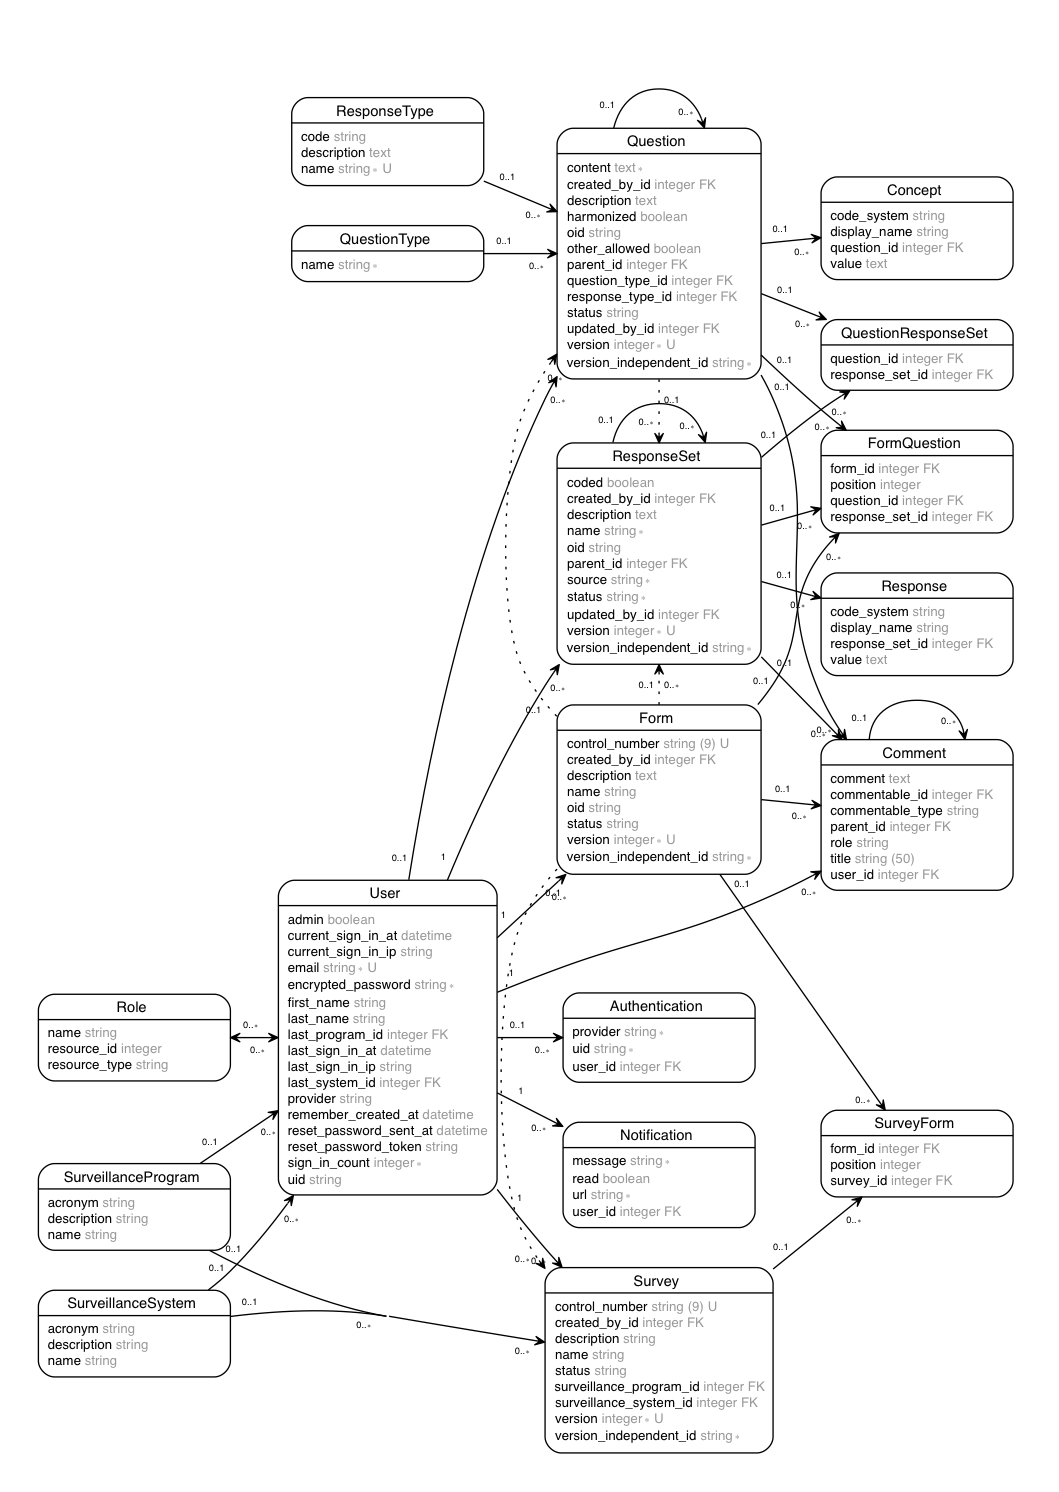
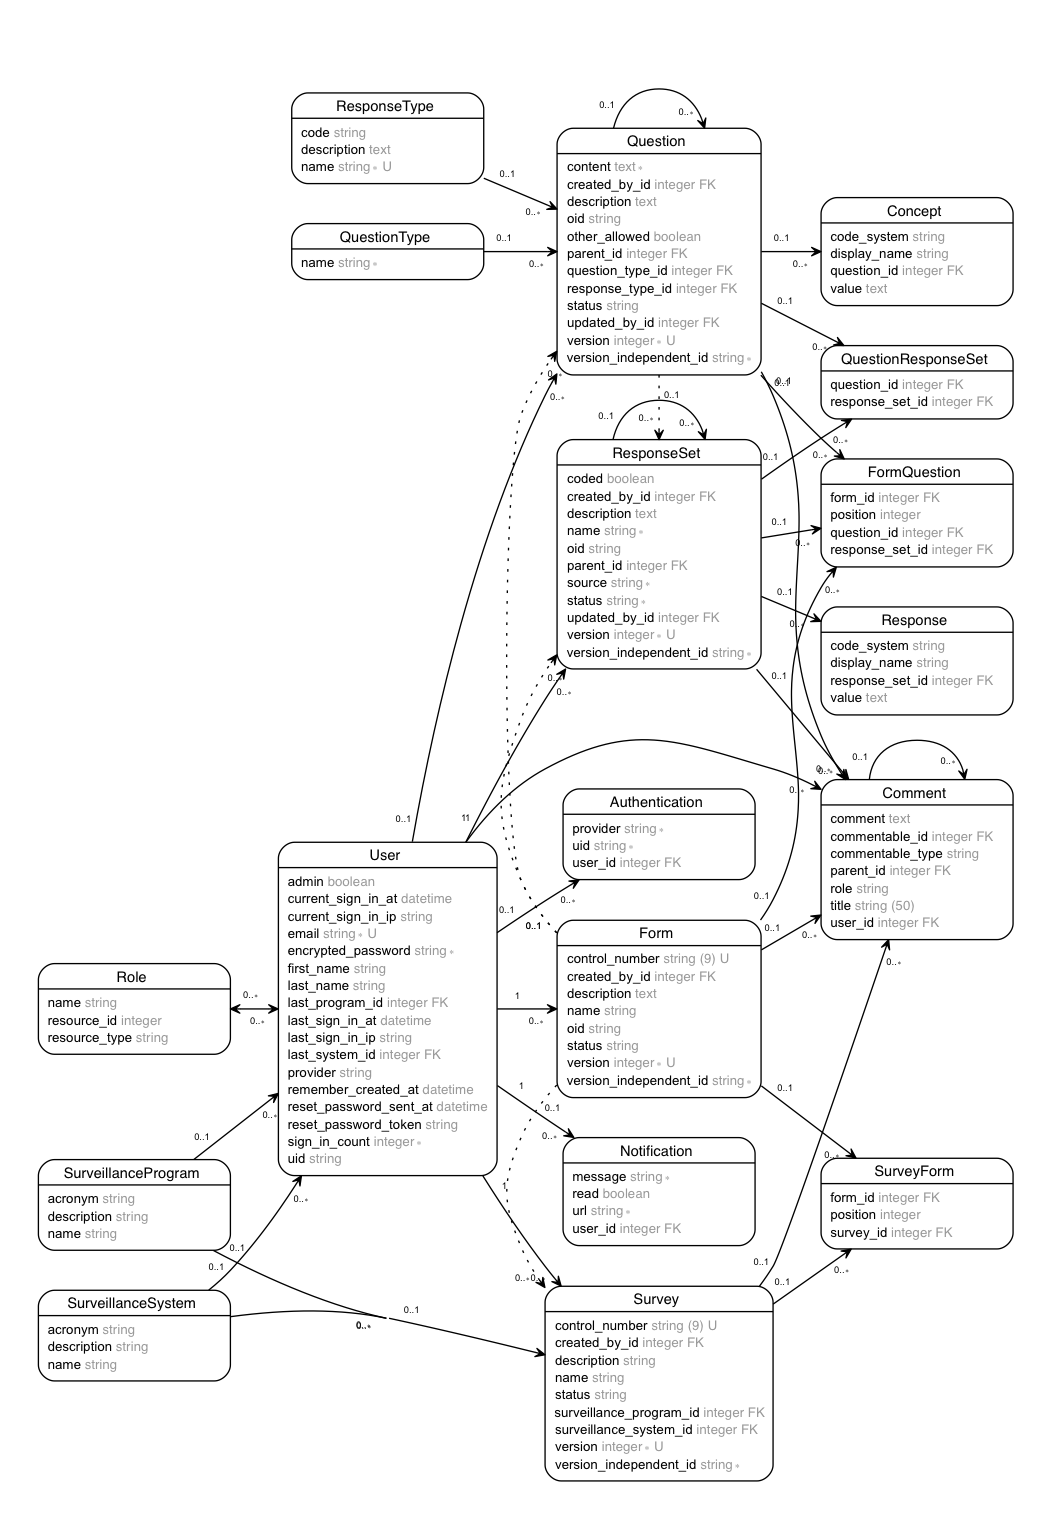
Removing harmonized from Question

diff --git a/webpack/components/QuestionForm.js b/webpack/components/QuestionForm.js
@@ -93,7 +93,6 @@ class QuestionForm extends Component{
       questionTypeId: null,
       versionIndependentId: null,
       version: 1,
-      harmonized: false,
       responseTypeId: null,
       conceptsAttributes: [],
       linkedResponseSets: [],
@@ -112,7 +111,6 @@ class QuestionForm extends Component{
     extendState.version = 1;
     extendState.parentId  = question.id;
     extendState.oid = '';
-    extendState.harmonized = false;
     extendState.versionIndependentId = null;
     extendState.otherAllowed = question.otherAllowed;
     extendState.responseTypeId = question.responseTypeId;
@@ -180,10 +178,6 @@ class QuestionForm extends Component{
                         return (<option key={rt.id} value={rt.id}>{rt.name} - {rt.description}</option>);
                       })}
                     </select>
-                  </div>
-                  <div className="col-md-4 question-form-group harmonized-group">
-                    <label className="input-label" htmlFor="harmonized">Harmonized: </label>
-                    <input className="form-ckeck-input" type="checkbox" name="harmonized" id="harmonized" checked={state.harmonized} onChange={() => this.toggleHarmonized()} />
                   </div>
                 </div>
                 {this.otherAllowedBox()}
@@ -286,10 +280,6 @@ class QuestionForm extends Component{
       this.setState(newState);
       this.unsavedState = true;
     };
-  }
-
-  toggleHarmonized() {
-    this.setState({harmonized: !this.state.harmonized});
   }
 
   toggleOtherAllowed() {

diff --git a/webpack/components/QuestionDetails.js b/webpack/components/QuestionDetails.js
@@ -126,10 +126,6 @@ export default class QuestionDetails extends Component {
               <strong>Created: </strong>
               { moment(question.createdAt,'').format('MMMM Do YYYY, h:mm:ss a') }
             </div>
-            <div className="box-content">
-              <strong>Harmonized: </strong>
-              {question.harmonized ? 'Yes' : 'No'}
-            </div>
             { question.parent &&
               <div className="box-content">
                 <strong>Extended from: </strong>

diff --git a/webpack/prop-types/question_props.js b/webpack/prop-types/question_props.js
@@ -3,8 +3,7 @@ import { PropTypes } from 'react';
 const questionProps = PropTypes.shape({
   id: PropTypes.number,
   content: PropTypes.string,
-  otherAllowed: PropTypes.boolean,
-  harmonized: PropTypes.boolean
+  otherAllowed: PropTypes.boolean
 });
 
 const questionsProps = PropTypes.objectOf(questionProps);

diff --git a/db/schema.rb b/db/schema.rb
@@ -10,7 +10,7 @@
 #
 # It's strongly recommended that you check this file into your version control system.
 
-ActiveRecord::Schema.define(version: 20170403180740) do
+ActiveRecord::Schema.define(version: 20170411184910) do
 
   # These are extensions that must be enabled in order to support this database
   enable_extension "plpgsql"
@@ -108,7 +108,6 @@ ActiveRecord::Schema.define(version: 20170403180740) do
     t.string   "oid"
     t.text     "description"
     t.string   "status",                 default: "draft"
-    t.boolean  "harmonized"
     t.integer  "parent_id"
     t.boolean  "other_allowed"
     t.index ["created_by_id"], name: "index_questions_on_created_by_id", using: :btree

diff --git a/app/controllers/questions_controller.rb b/app/controllers/questions_controller.rb
@@ -125,7 +125,7 @@ class QuestionsController < ApplicationController
   # Never trust parameters from the scary internet, only allow the white list through.
   def question_params
     params.require(:question).permit(:content, :response_set_id, :response_type_id, :parent_id, :question_type_id,
-                                     :version_independent_id, :description, :status, :harmonized, :other_allowed,
+                                     :version_independent_id, :description, :status, :other_allowed,
                                      concepts_attributes: [:id, :value, :display_name, :code_system])
   end
 end

diff --git a/db/migrate/20170411184910_remove_harmonized_from_question.rb b/db/migrate/20170411184910_remove_harmonized_from_question.rb
@@ -1,0 +1,5 @@
+class RemoveHarmonizedFromQuestion < ActiveRecord::Migration[5.0]
+  def change
+    remove_column :questions, :harmonized, :boolean
+  end
+end
